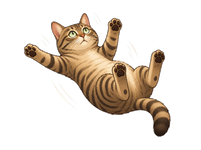
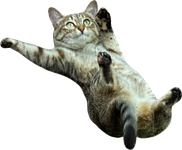
Use cutout cat image in desktop build

diff --git a/README.md b/README.md
@@ -1,15 +1,18 @@
 # Sliding Cat Desktop
 
 Sliding Cat Desktop is the non-browser version of Sliding Cat Cursor. It runs as
-a small desktop overlay on Windows or macOS and shows the original illustrated
-cat when your mouse cursor moves downward.
+a small desktop overlay on Windows or macOS and shows a cutout sliding cat when
+your mouse cursor moves downward.
+
+This open-source GitHub build uses the cutout cat image from the original viral
+photo. Please verify image rights before commercial redistribution.
 
 This is separate from the Chrome extension. It works on the operating system
 desktop, not just inside browser pages.
 
 ## Download
 
-[sliding-cat-desktop-v0.1.0.zip](dist/sliding-cat-desktop-v0.1.0.zip)
+[sliding-cat-desktop-v0.1.1.zip](dist/sliding-cat-desktop-v0.1.1.zip)
 
 ## Run on Windows
 